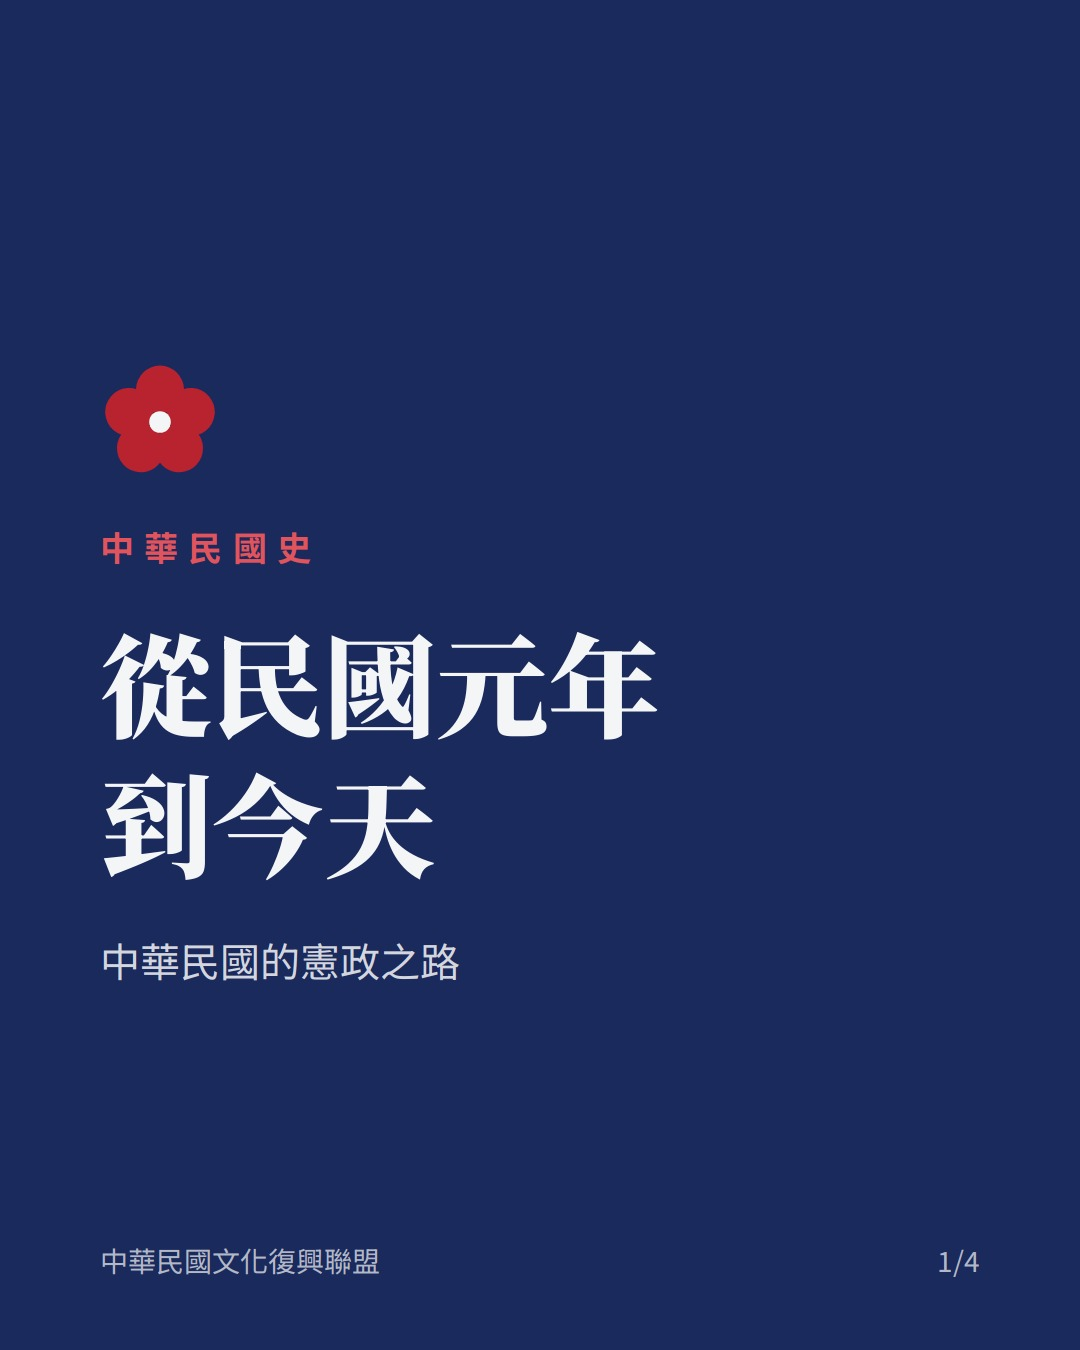
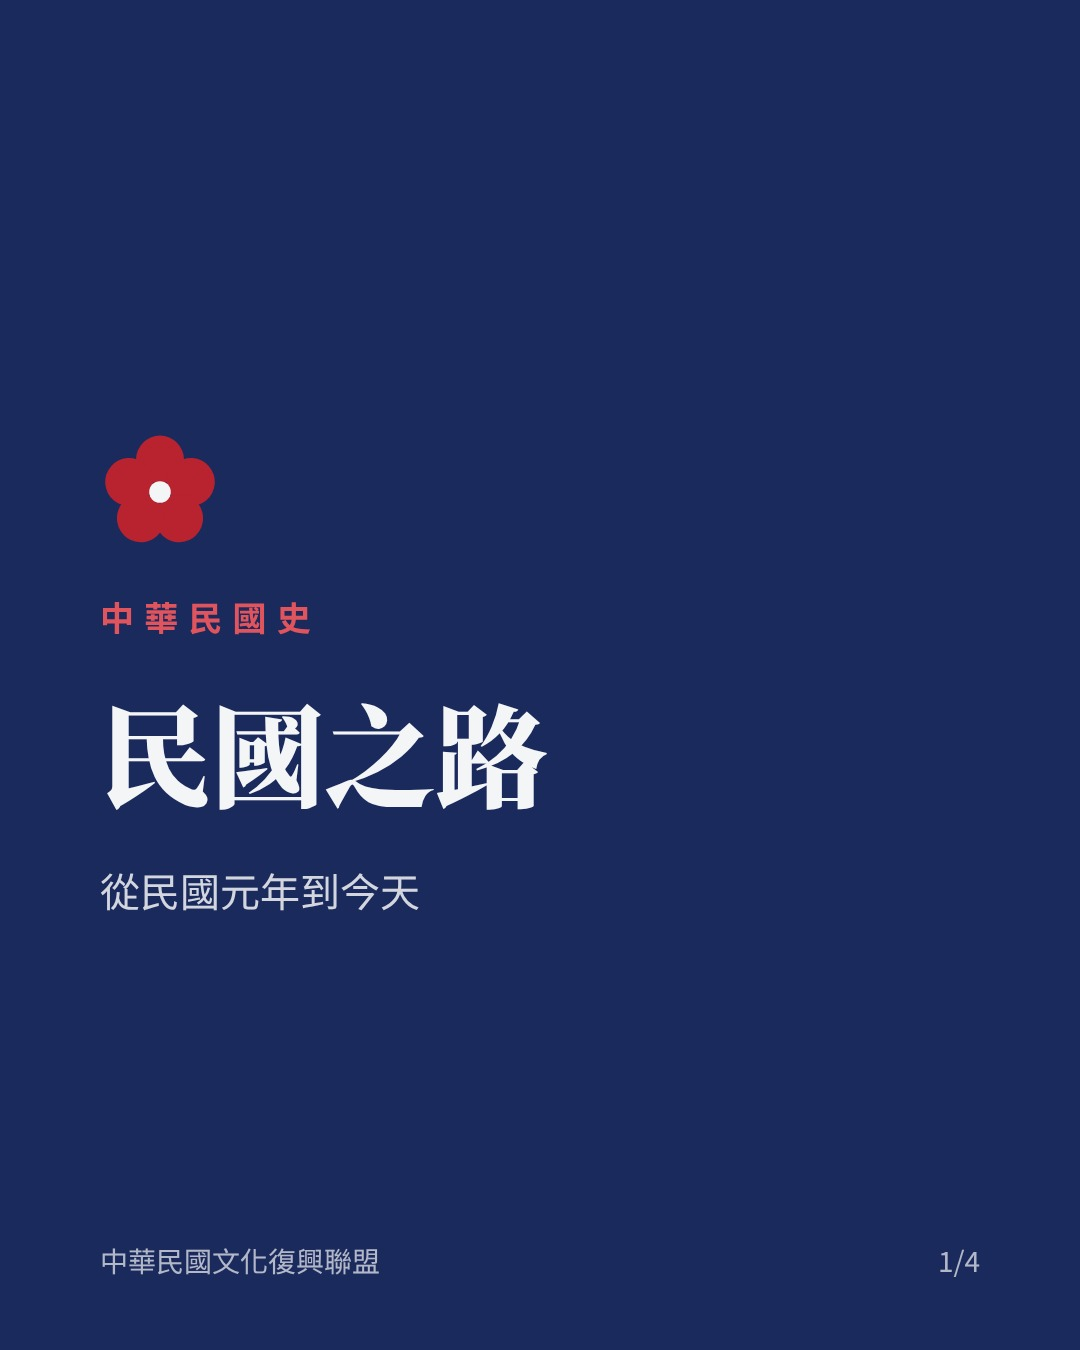
憲政之路標題改為「民國之路」
Claude-Session: https://claude.ai/code/session_01TexqmyAAmVL75pyU1EWzVc

Changed region(s): [[0.0917, 0.2489, 0.6111, 0.7467]]

diff --git a/docs/index.html b/docs/index.html
@@ -70,7 +70,7 @@ a{color:var(--plum)}
 </div></header>
 <main><div class="wrap">
 <section class="about"><h2>關於聯盟</h2><p>本聯盟為民間自發團體，與任何政府機關、政黨或既有組織均無隸屬關係。站上文章皆為本聯盟立場，引用皆附出處。</p></section>
-<section class="index"><h2>文章</h2><ol><li><a href="#manifesto"><span class="k">聯盟宣言・民國115年10月25日</span><span class="t">中華民國文化復興聯盟成立宣言</span></a></li><li><a href="#three-principles"><span class="k">重讀三民主義・民國115年10月25日</span><span class="t">十分鐘讀懂三民主義</span></a></li><li><a href="#constitutional-road"><span class="k">中華民國史・民國115年10月25日</span><span class="t">從民國元年到今天：中華民國的憲政之路</span></a></li></ol></section>
+<section class="index"><h2>文章</h2><ol><li><a href="#manifesto"><span class="k">聯盟宣言・民國115年10月25日</span><span class="t">中華民國文化復興聯盟成立宣言</span></a></li><li><a href="#three-principles"><span class="k">重讀三民主義・民國115年10月25日</span><span class="t">十分鐘讀懂三民主義</span></a></li><li><a href="#constitutional-road"><span class="k">中華民國史・民國115年10月25日</span><span class="t">民國之路</span></a></li></ol></section>
 
 <article id="manifesto">
 <div class="k">聯盟宣言・民國115年10月25日</div>
@@ -142,7 +142,7 @@ a{color:var(--plum)}
 </article>
 <article id="constitutional-road">
 <div class="k">中華民國史・民國115年10月25日</div>
-<h1>從民國元年到今天：中華民國的憲政之路</h1>
+<h1>民國之路</h1>
 <p class="lede">十月二十五日是臺灣光復的日子。我們整理中華民國從建立、遷臺到民主化的關鍵年份，也說明我們為什麼認為這段歷史證明了反共的價值。</p>
 
 <p>中華民國的歷史常被簡化成幾個口號。我們想用年份與事實，把這條路完整走一遍。</p>

diff --git a/content.py b/content.py
@@ -130,7 +130,7 @@ ARTICLES = [
         "slug": "constitutional-road",
         "date": "2026-10-25",
         "tag": "中華民國史",
-        "title": "從民國元年到今天：中華民國的憲政之路",
+        "title": "民國之路",
         "lede": "十月二十五日是臺灣光復的日子。我們整理中華民國從建立、遷臺到民主化的關鍵年份，也說明我們為什麼認為這段歷史證明了反共的價值。",
         "web": """
 <p>中華民國的歷史常被簡化成幾個口號。我們想用年份與事實，把這條路完整走一遍。</p>
@@ -161,12 +161,12 @@ ARTICLES = [
 <p class="note">資料來源：《中華民國憲法》及增修條文；總統府、國史館公開之大事年表。以上評論為本聯盟觀點。</p>
 """,
         "ig_slides": [
-            {"kind": "cover", "kicker": "中華民國史", "head": "從民國元年\n到今天", "sub": "中華民國的憲政之路"},
+            {"kind": "cover", "kicker": "中華民國史", "head": "民國之路", "sub": "從民國元年到今天"},
             {"kind": "timeline", "head": "關鍵年份", "items": [["1912", "中華民國建立"], ["1928", "北伐完成，全國統一"], ["1937", "全面抗戰開始"], ["1945", "抗戰勝利・臺灣光復"], ["1947", "憲法施行"], ["1949", "中央政府遷臺"], ["1987", "解除戒嚴"], ["1991", "終止動員戡亂"], ["1996", "首次總統直選"], ["2000", "首次政黨輪替"]]},
             {"kind": "text", "head": "不迴避的陰影", "body": "戒嚴三十八年間發生白色恐怖，\n許多人受到不公的審判與迫害。\n\n這是歷史的一部分，\n應該被記錄，也應該被反省。"},
             {"kind": "text", "head": "反共是一種選擇", "body": "中華民國在同一部憲法下自我修正，\n一步步走向主權在民。\n\n一黨專政做不到這件事。\n我們選擇能被人民監督的國家。"},
         ],
-        "ig_caption": """10 月 25 日，臺灣光復。我們用年份走一遍中華民國的憲政之路：
+        "ig_caption": """10 月 25 日，臺灣光復。我們用年份走一遍民國之路：
 
 1912 中華民國建立
 1928 北伐完成

diff --git a/posts/03-constitutional-road.md b/posts/03-constitutional-road.md
@@ -1,4 +1,4 @@
-# 從民國元年到今天：中華民國的憲政之路
+# 民國之路
 
 發布日：2026-10-25（民國115年10月25日）　網站錨點：`#constitutional-road`
 
@@ -10,10 +10,10 @@
 3. docs/ig/03-constitutional-road-3.jpg
 4. docs/ig/03-constitutional-road-4.jpg
 
-貼文說明（274 字，上限 2,200）：
+貼文說明（269 字，上限 2,200）：
 
 ```
-10 月 25 日，臺灣光復。我們用年份走一遍中華民國的憲政之路：
+10 月 25 日，臺灣光復。我們用年份走一遍民國之路：
 
 1912 中華民國建立
 1928 北伐完成
